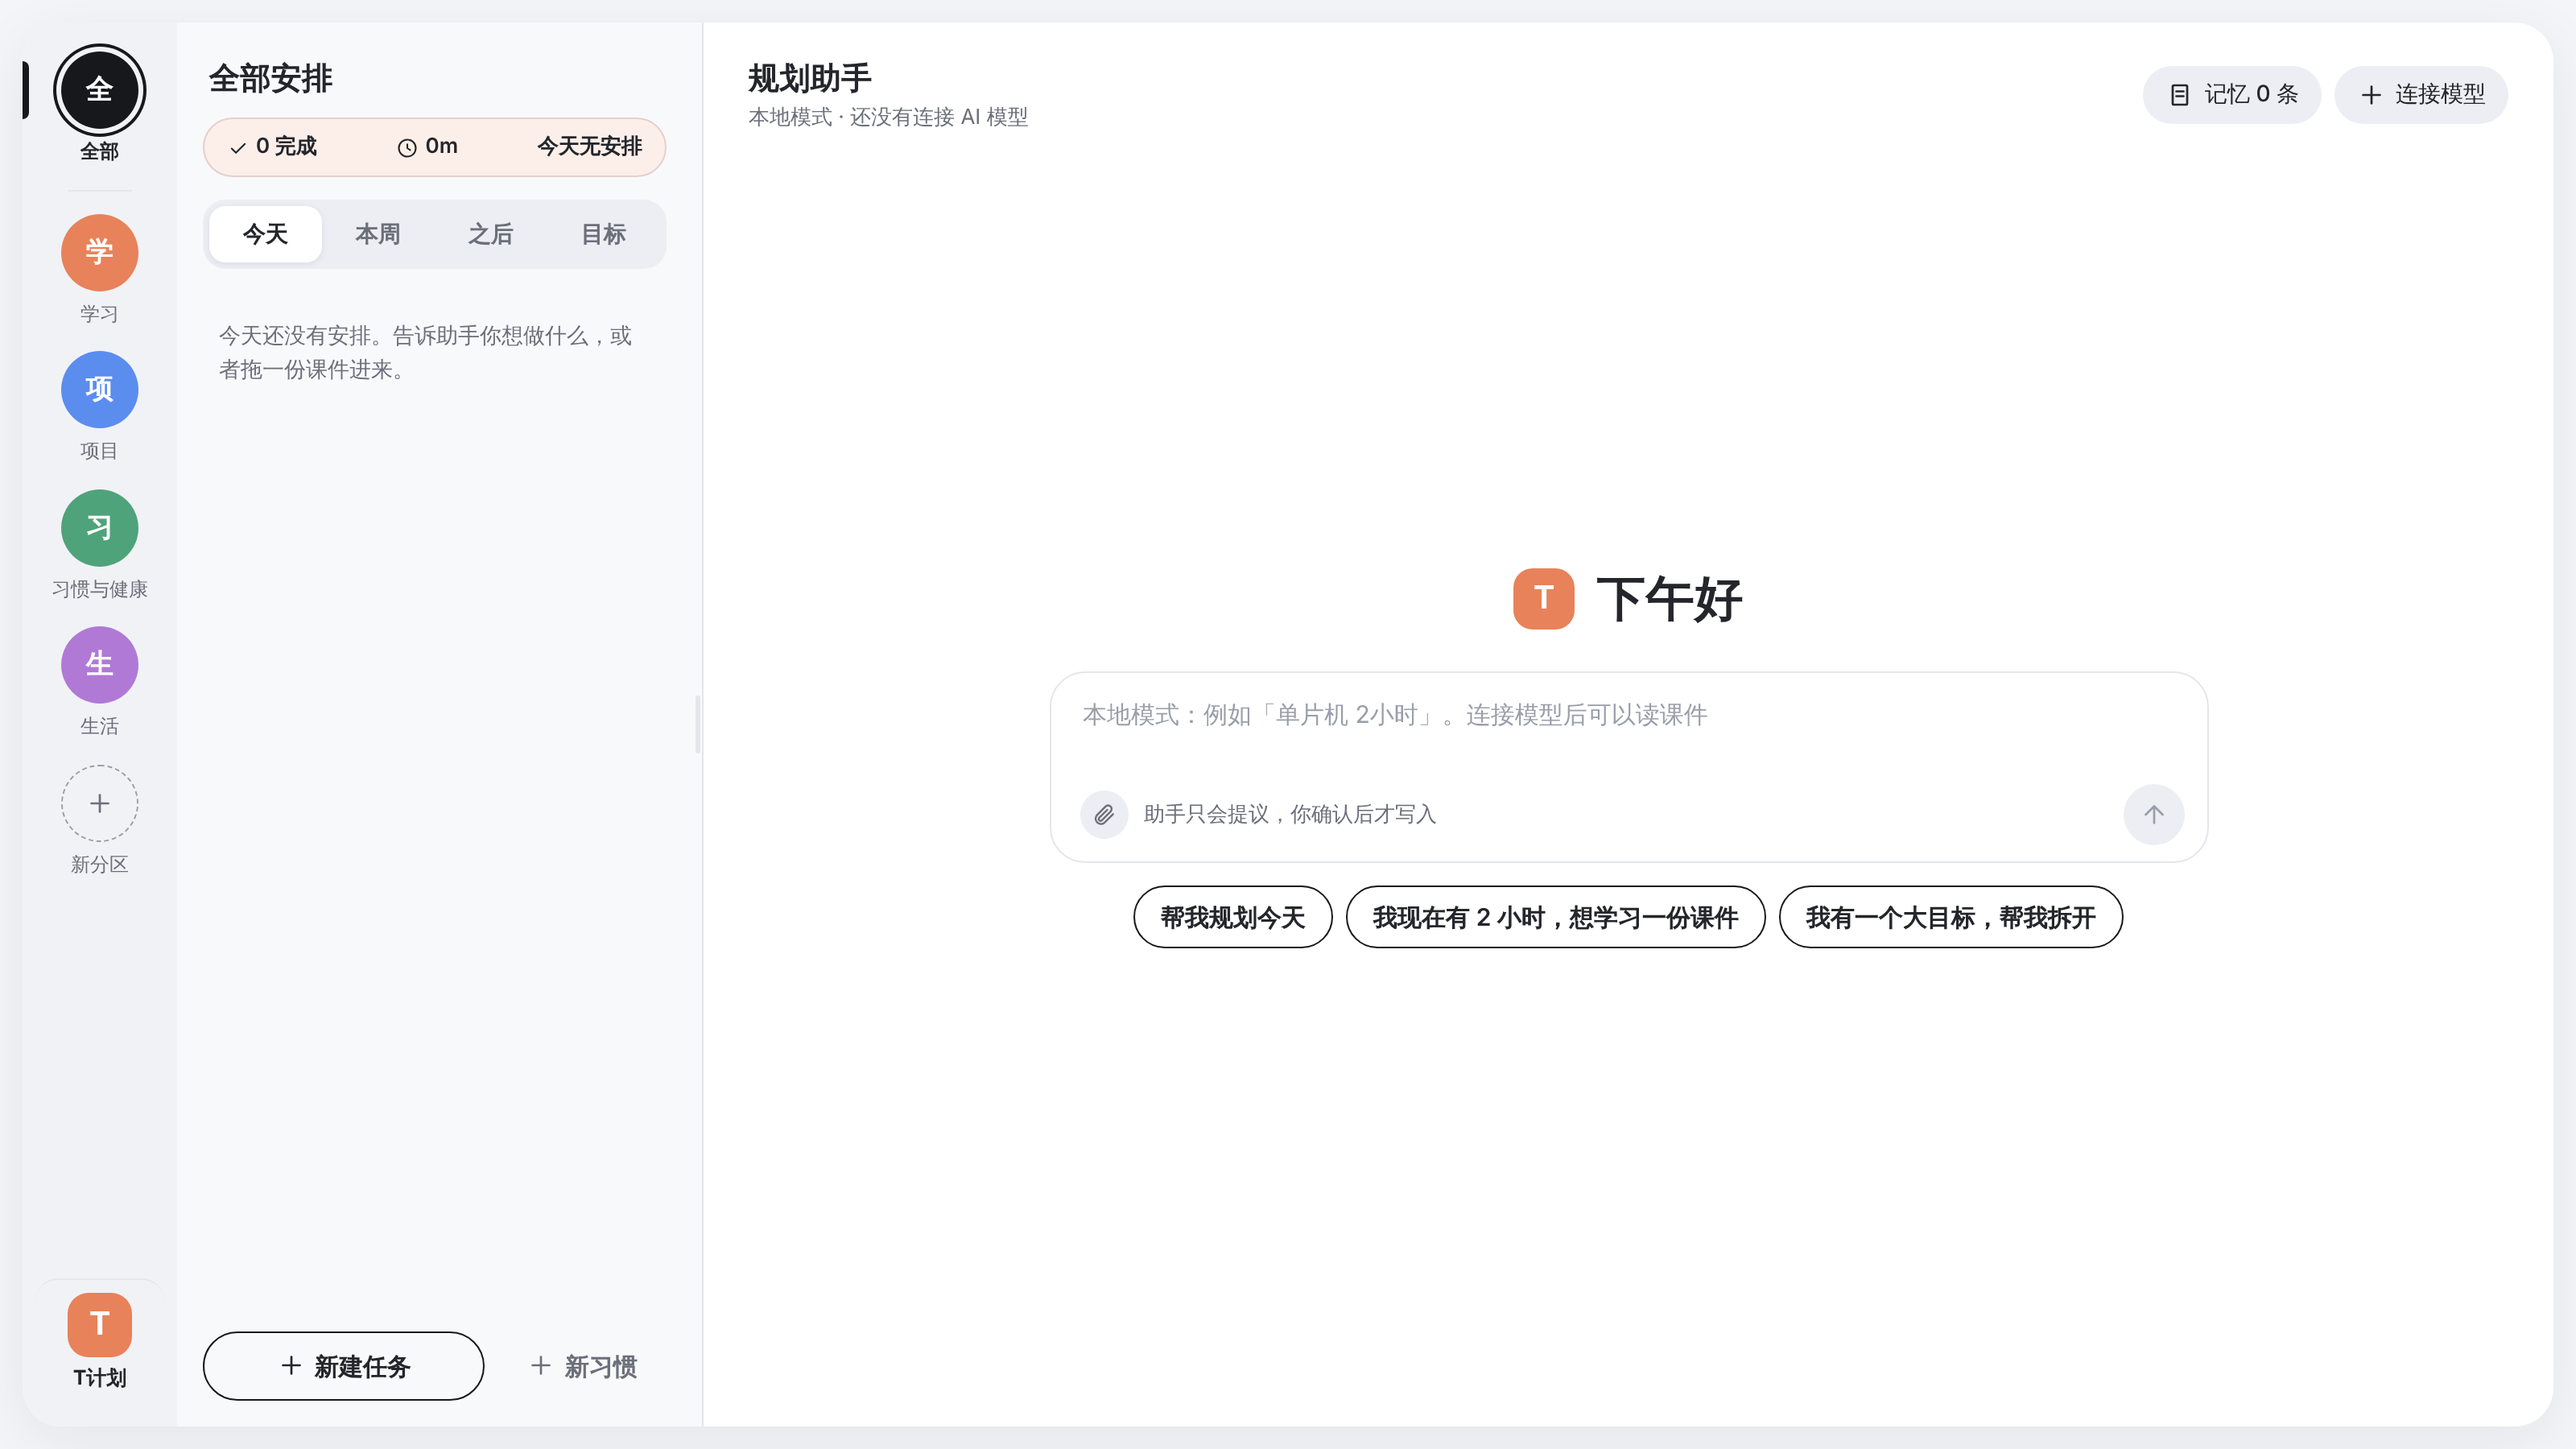
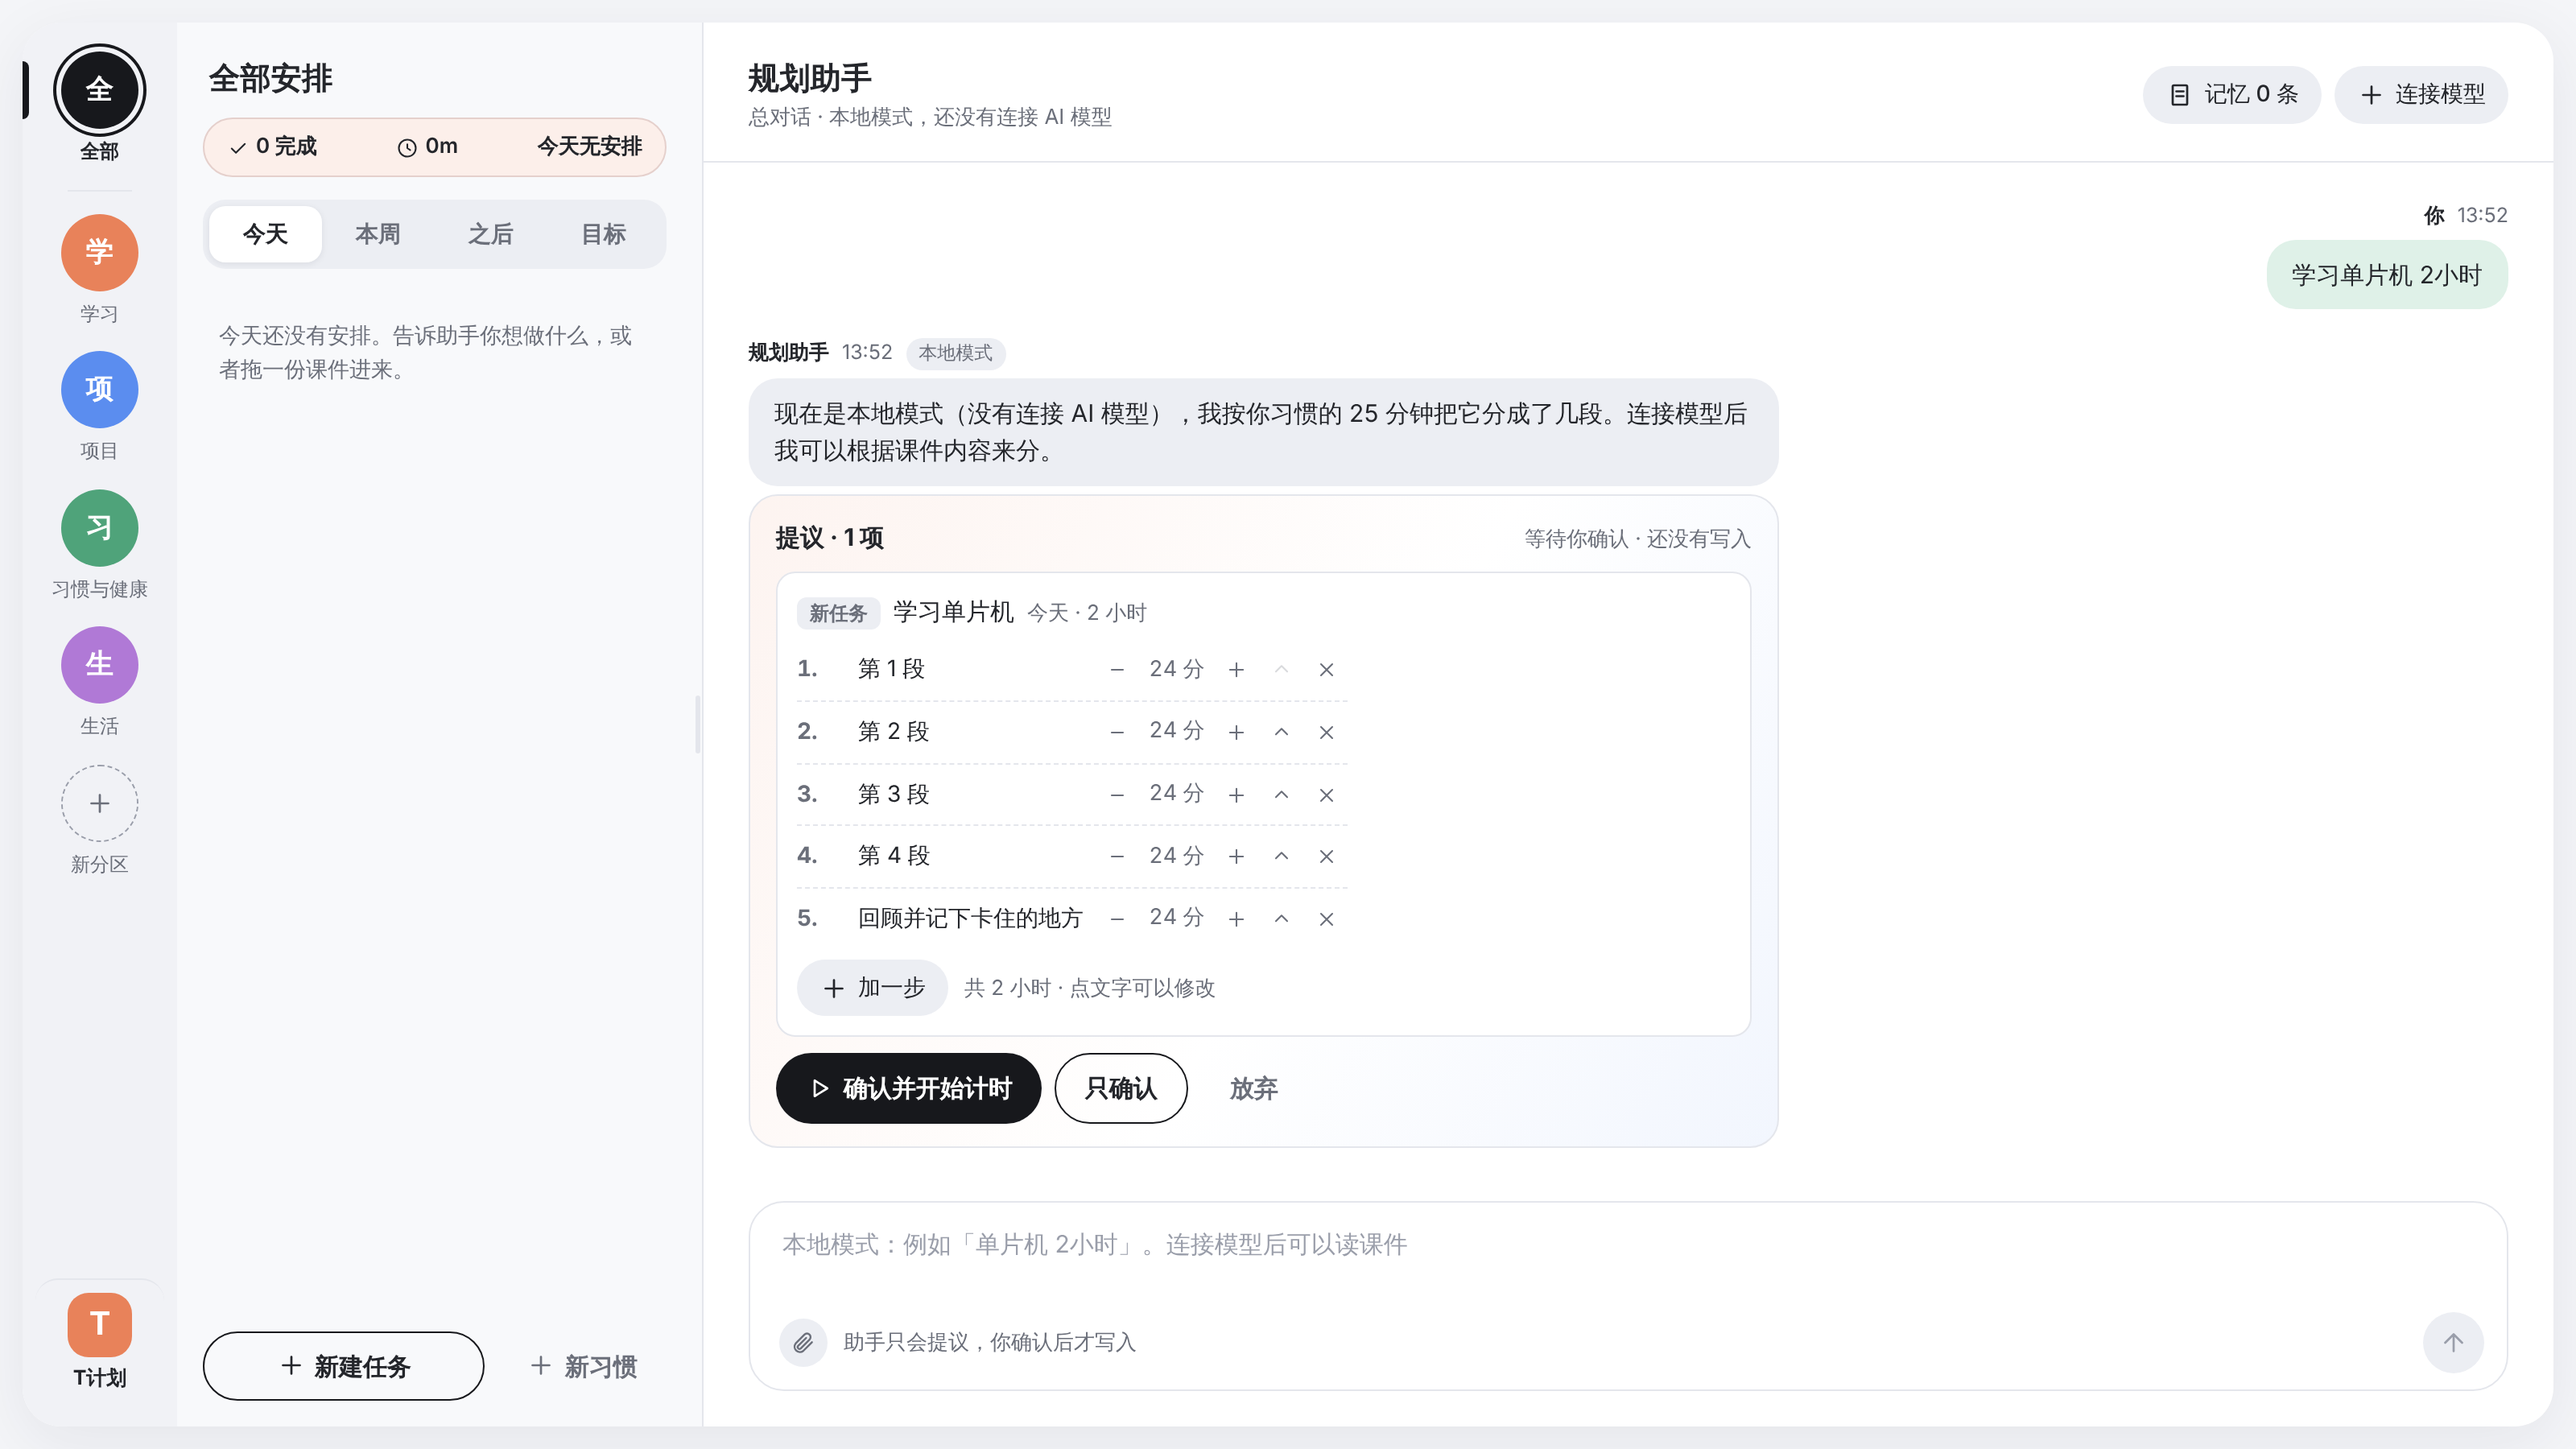
Keep the app's own chat look in the new layout
Drop the centred greeting and narrow reading column. An empty
conversation shows the original welcome block inside the chat area,
and the composer stays full width at the bottom.

Claude-Session: https://claude.ai/code/session_01TEYLhYgaF7d7PWbA7WbdHM

diff --git a/v4/js/app.js b/v4/js/app.js
@@ -552,6 +552,10 @@
     const chatKey = ui.space + ':' + thread.length + ':' + ui.busy + ':' + ui.busyText;
     const scroller = h('div', { class: 'chat-scroll', id: 'chatScroll' },
       thread.map((m, i) => messageRow(m, i === last)),
+      !thread.length && !ui.busy ? h('div', { class: 'welcome' },
+        h('h3', {}, space(ui.space) ? '在「' + space(ui.space).name + '」里想推进什么？' : (state.settings.prefs.name ? state.settings.prefs.name + '，' : '') + '今天想推进什么？'),
+        h('p', { class: 'sub' }, '告诉我你的任务、目标或者困难，也可以把课件、图片拖进来。我会先看你的安排和记录，再提出修改，你确认之后才会写入。'),
+        h('div', { class: 'starters' }, STARTERS.map((text) => h('button', { class: 'pill soft', onclick: () => send(text) }, text)))) : null,
       ui.busy ? h('div', { class: 'msg theirs' }, h('div', { class: 'bubble typing', role: 'status' }, h('i'), h('i'), h('i'), ui.busyText ? h('span', { class: 'sub' }, ui.busyText) : null)) : null);
     const input = h('textarea', {
       id: 'composer', rows: 2, maxLength: 4000, value: ui.draft,
@@ -562,19 +566,14 @@
     });
     const picker = h('input', { type: 'file', multiple: true, hidden: true, onchange: (e) => { addFiles(e.target.files); e.target.value = ''; } });
     const main = $('#main');
-    const hour = new Date().getHours();
-    const greeting = (hour < 5 ? '夜深了' : hour < 11 ? '早上好' : hour < 13 ? '中午好' : hour < 18 ? '下午好' : '晚上好') + (state.settings.prefs.name ? '，' + state.settings.prefs.name : '');
     const here = space(ui.space);
-    const empty = !thread.length && !ui.busy;
-    main.classList.toggle('home', empty);
     main.replaceChildren(
       h('header', { class: 'main-head' },
         h('div', {}, h('h2', {}, here ? here.name + ' · 规划助手' : '规划助手'), h('p', { class: 'sub' }, (here ? '这个分区自己的对话 · ' : '总对话 · ') + (model ? '模型：' + model : '本地模式，还没有连接 AI 模型'))),
         h('div', { class: 'head-actions' },
           h('button', { class: 'pill soft', onclick: () => openSettings('memory') }, icon('note'), h('span', {}, '记忆 ' + state.memory.length + ' 条')),
           !model ? h('button', { class: 'pill soft', onclick: () => openSettings('model') }, icon('plus'), h('span', {}, '连接模型')) : null)),
-      empty ? h('div', { class: 'greeting' }, here ? h('span', { class: 'avatar', style: 'background:' + here.color, 'aria-hidden': 'true' }, here.name.slice(0, 1)) : h('span', { class: 'brand-mark', 'aria-hidden': 'true' }, 'T'),
-        h('h1', {}, here ? '在「' + here.name + '」里想推进什么？' : greeting)) : scroller,
+      scroller,
       h('div', { class: 'composer' },
         ui.attachments.length || ui.parsing ? h('div', { class: 'files' },
           ui.attachments.map((f) => fileChip(f, () => { ui.attachments = ui.attachments.filter((x) => x !== f); render(); })),
@@ -584,7 +583,6 @@
           h('button', { class: 'icon-btn small', 'aria-label': '添加文件', title: '添加课件、图片或代码文件', onclick: () => picker.click() }, icon('clip')), picker,
           h('span', { class: 'sub grow' }, here ? '新建的任务和目标会放进「' + here.name + '」' : '助手只会提议，你确认后才写入'),
           h('button', { class: 'send', id: 'send', 'aria-label': '发送', onclick: () => send() }, icon('send')))),
-      empty ? h('div', { class: 'starters' }, STARTERS.map((text) => h('button', { class: 'pill option', onclick: () => send(text) }, text))) : null,
       h('div', { class: 'drop-hint' }, icon('file'), '松开，把文件交给助手'));
     updateSend();
     scroller.scrollTop = previous && chatKey === lastChatKey ? offset : scroller.scrollHeight;

diff --git a/v4/styles.css b/v4/styles.css
@@ -439,18 +439,6 @@ body { padding: 14px; gap: 0; }
 .brand-btn .brand-mark { width: 40px; height: 40px; border-radius: 13px; font-size: 20px; font-weight: 750; }
 .brand-btn .brand-name { font-size: 12.5px; font-weight: 700; color: var(--text); }
 
-/* chat column centred like a reading column */
-.main-head { border-bottom: 0; padding-bottom: 8px; }
-.chat-scroll { padding-left: max(28px, calc((100% - 860px) / 2)); padding-right: max(28px, calc((100% - 860px) / 2)); }
-.composer { width: min(860px, calc(100% - 56px)); margin: 0 auto 22px; }
-.main.home { justify-content: flex-start; }
-.main.home .main-head { margin-bottom: auto; }
-.main.home .composer { margin-bottom: 14px; width: min(720px, calc(100% - 56px)); }
-.main.home .starters { margin: 0 auto auto; padding: 0 28px 40px; width: min(720px, 100%); }
-.greeting { display: flex; align-items: center; justify-content: center; gap: 14px; padding: 0 28px 22px; }
-.greeting h1 { margin: 0; font-size: 30px; font-weight: 650; letter-spacing: .01em; }
-.greeting .brand-mark { width: 38px; height: 38px; border-radius: 12px; font-size: 20px; font-weight: 750; }
-
 /* settings panel: categories on the left, content on the right */
 .panel { border: 0; padding: 0; border-radius: 24px; background: var(--panel); color: var(--text); box-shadow: var(--pop); width: min(1060px, calc(100vw - 48px)); height: min(760px, calc(100vh - 48px)); max-width: none; max-height: none; overflow: hidden; }
 .panel[open] { display: flex; flex-direction: column; }
